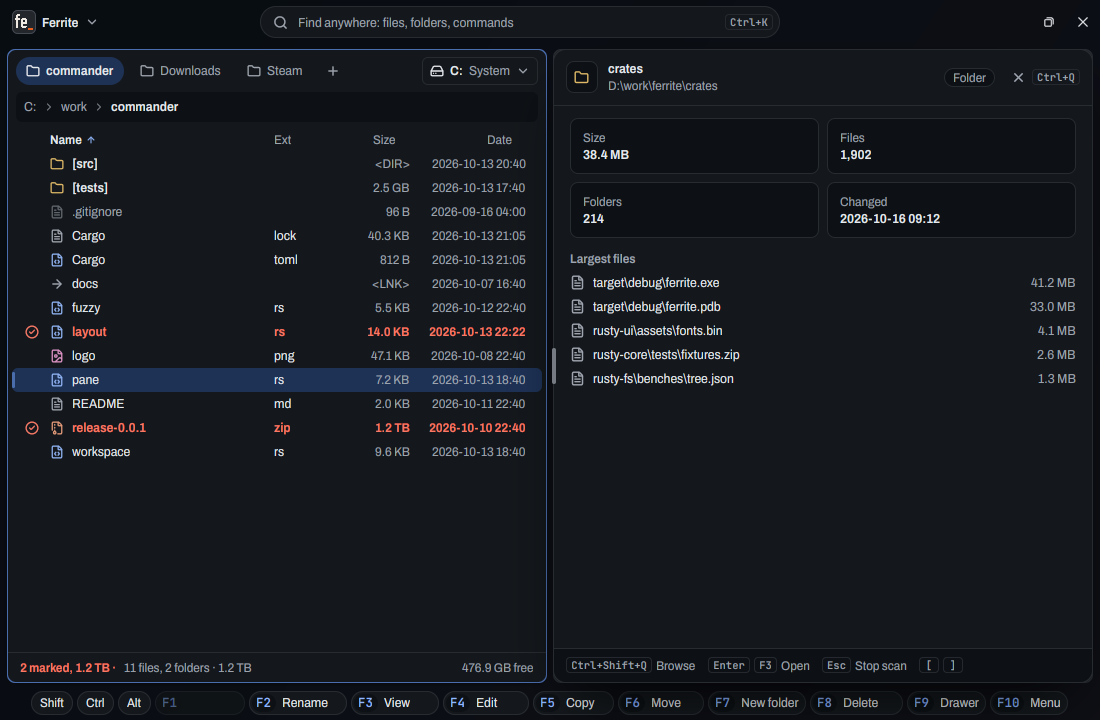
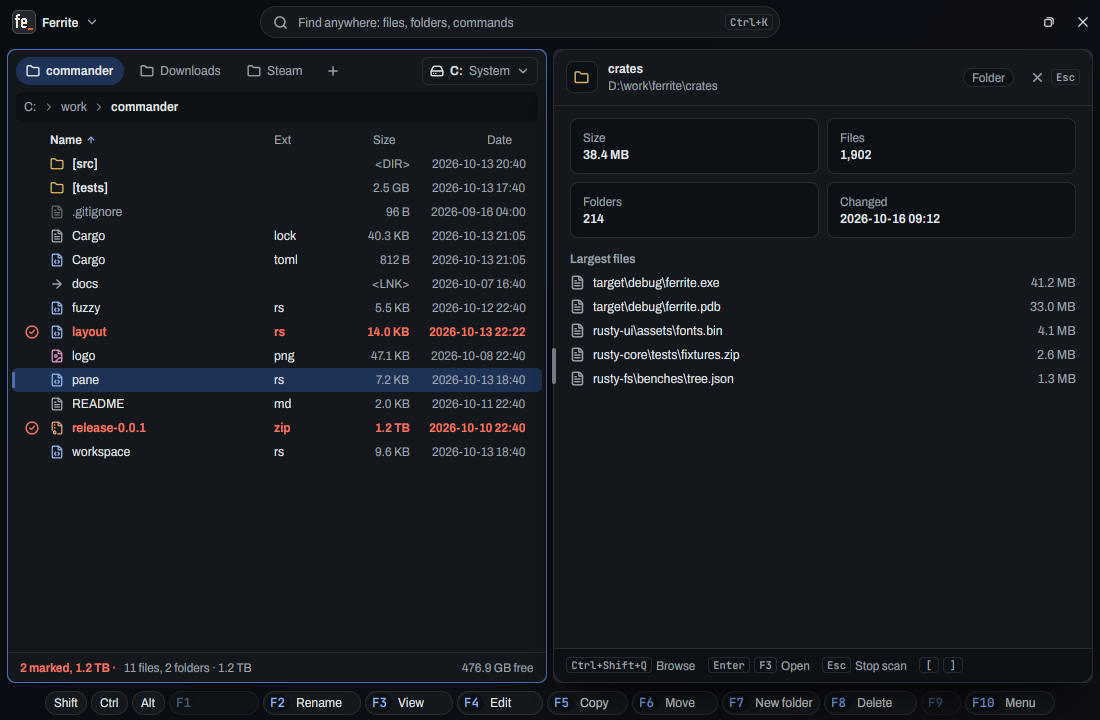
ui: F3 is the only way into the preview, Ctrl+Q and the card button go (P21 V8, D10)
pane.toggle_preview and preview.toggle leave keymap.toml, the registry
and the snapshots, with their actions; a user keymap that still names
them gets the usual unknown-command error. The Preview button in the
active card is removed. The sheet's close button and its Close hint now
show Esc, which already closes it (D9); Ctrl+Shift+Q still browses.
Tests open the sheet through open_preview instead of Ctrl+Q; new tests
cover Ctrl+Q doing nothing, F3 opening and following onto a file, Esc
closing and no card button. Gallery sheet screenshots refreshed.

diff --git a/crates/rusty-ui/src/window_view/preview/tests/toggle.rs b/crates/rusty-ui/src/window_view/preview/tests/toggle.rs
@@ -1,63 +1,67 @@
 use gpui_kit::AppContext as _;
 use gpui_kit::TestAppContext;
+
 use gpui_kit::test::TestWindowExt;
 
 use super::{Rig, open_fake};
+use crate::primitives::Kbd;
+use crate::window_view::preview::Shown;
 use crate::window_view::tests::fake;
 
 fn is_open(cx: &mut TestAppContext, rig: &Rig) -> bool {
     rig.read(cx, |view| view.preview.is_open())
 }
 
-fn button_pressed(cx: &mut TestAppContext, rig: &Rig) -> Option<bool> {
-    let pane = rig.active_pane(cx);
-    cx.update_window(rig.window, |_, window, cx| {
-        window.render_frame(cx);
-        window.find(("preview-button", pane)).selected()
-    })
-    .expect("window")
+#[gpui_kit::test]
+fn ctrl_q_neither_opens_nor_closes_the_preview(cx: &mut TestAppContext) {
+    let rig = open_fake(cx, &fake());
+    rig.key(cx, "ctrl-q");
+    assert!(!is_open(cx, &rig));
+    rig.key(cx, "f3");
+    assert!(is_open(cx, &rig));
+    rig.key(cx, "ctrl-q");
+    assert!(is_open(cx, &rig));
+    assert!(rig.list_has_focus(cx));
 }
 
 #[gpui_kit::test]
-fn ctrl_q_opens_and_closes_the_preview_and_the_list_keeps_focus(cx: &mut TestAppContext) {
+fn f3_opens_the_preview_and_it_follows_the_cursor_onto_a_file(cx: &mut TestAppContext) {
     let rig = open_fake(cx, &fake());
-    assert!(!is_open(cx, &rig));
-    assert!(!rig.shows(cx, "preview-sheet"));
-    rig.key(cx, "ctrl-q");
+    rig.key(cx, "f3");
     assert!(is_open(cx, &rig));
     rig.settle_motion(cx);
     assert!(rig.shows(cx, "preview-sheet"));
-    assert!(rig.list_has_focus(cx));
-    rig.key(cx, "ctrl-q");
-    assert!(!is_open(cx, &rig));
+    assert_eq!(rig.shown_name(cx).as_deref(), Some("docs"));
+    rig.key(cx, "down");
+    assert!(rig.rest_until(cx, |view| {
+        matches!(view.preview.shown(), Some(Shown::File(file)) if file.target.name() == "a.txt")
+    }));
     assert!(rig.list_has_focus(cx));
 }
 
 #[gpui_kit::test]
-fn the_preview_button_in_the_active_card_toggles_the_sheet(cx: &mut TestAppContext) {
+fn escape_closes_the_preview_opened_with_f3(cx: &mut TestAppContext) {
     let rig = open_fake(cx, &fake());
-    let pane = rig.active_pane(cx);
-    assert_eq!(button_pressed(cx, &rig), Some(false));
-    rig.click(cx, ("preview-button", pane));
-    assert!(is_open(cx, &rig));
-    assert_eq!(button_pressed(cx, &rig), Some(true));
-    assert!(rig.list_has_focus(cx));
-    rig.click(cx, ("preview-button", pane));
+    rig.key(cx, "f3");
+    rig.settle_motion(cx);
+    rig.key(cx, "escape");
     assert!(!is_open(cx, &rig));
+    rig.settle_motion(cx);
+    assert!(!rig.shows(cx, "preview-sheet"));
+    assert!(rig.list_has_focus(cx));
 }
 
 #[gpui_kit::test]
-fn only_the_active_card_has_a_preview_button(cx: &mut TestAppContext) {
+fn no_card_has_a_preview_button(cx: &mut TestAppContext) {
     let rig = open_fake(cx, &fake());
-    let active = rig.active_pane(cx);
     let panes = rig.read(cx, |view| view.panes());
-    let passive = panes
-        .iter()
-        .map(|pane| pane.get())
-        .find(|pane| *pane != active)
-        .expect("two panes");
-    assert!(rig.shows(cx, ("preview-button", active)));
-    assert!(!rig.shows(cx, ("preview-button", passive)));
+    for pane in panes {
+        assert!(!rig.shows(cx, ("preview-button", pane.get())));
+    }
+    rig.key(cx, "f3");
+    rig.settle_motion(cx);
+    let active = rig.active_pane(cx);
+    assert!(!rig.shows(cx, ("preview-button", active)));
 }
 
 #[gpui_kit::test]
@@ -83,4 +87,19 @@ fn the_footer_names_every_preview_key(cx: &mut TestAppContext) {
         .filter_map(|index| rig.label(cx, ("side-sheet-hint", index)))
         .collect();
     assert_eq!(hints, ["Browse", "Open", "Stop scan", "[ ]", "Close"]);
+    let escape = Kbd::new("escape", "escape").map(|kbd| kbd.text());
+    let close_keys = cx
+        .update_window(rig.window, |_, window, cx| {
+            window.render_frame(cx);
+            let hint = window
+                .within(("side-sheet-hint", 4usize))
+                .find(("key", 0usize));
+            let button = window.find("side-sheet-close-key");
+            [
+                hint.label().map(str::to_owned),
+                button.label().map(str::to_owned),
+            ]
+        })
+        .expect("window");
+    assert_eq!(close_keys, [escape.clone(), escape]);
 }

diff --git a/crates/rusty-ui/src/window_view/preview/sheet.rs b/crates/rusty-ui/src/window_view/preview/sheet.rs
@@ -1,11 +1,10 @@
+use gpui_kit::Role;
 use gpui_kit::base::TestSupportExt;
-use gpui_kit::{ClickEvent, Role};
 
 use super::Shown;
 use super::file::FilePreview;
 use super::header::{title_of, title_view};
 use super::summary::{Picks, Sections, summary};
-use crate::pane_chrome::PreviewButton;
 use crate::prelude::*;
 use crate::side_sheet::{SheetFrame, SideSheet, on_resize_keys};
 use crate::tokens::{self, Theme};
@@ -69,16 +68,6 @@ impl FerriteWindow {
         on_resize_keys(root, &self.preview.sheet, frame)
     }
 
-    pub(in crate::window_view) fn preview_button(
-        &self,
-        pane: rusty_core::PaneId,
-        cx: &mut Context<Self>,
-    ) -> PreviewButton {
-        PreviewButton::new(("preview-button", pane.get()), self.preview.is_open()).on_click(
-            cx.listener(|this, _: &ClickEvent, window, cx| this.toggle_preview(window, cx)),
-        )
-    }
-
     pub(in crate::window_view) fn preview_layer(
         &self,
         window: &Window,
@@ -97,8 +86,12 @@ impl FerriteWindow {
         let sheet = SideSheet::new("preview-sheet", &self.preview.sheet, frame)
             .label("Preview")
             .header(title_view(&t, title_of(&t, shown), is_browsing))
-            .close("ctrl-q", move |window, cx| {
-                let _ = this.update(cx, |view, cx| view.toggle_preview(window, cx));
+            .close("escape", move |window, cx| {
+                let _ = this.update(cx, |view, cx| {
+                    view.close_preview(cx);
+                    view.focus_core_pane(window, cx);
+                    cx.notify();
+                });
             })
             .body(self.browse_frame(body, cx))
             .accent_ring(is_browsing);
@@ -117,7 +110,7 @@ impl FerriteWindow {
         let sheet = if is_browsing {
             sheet
         } else {
-            sheet.hint(&["[", "]"], "").hint(&["ctrl-q"], "Close")
+            sheet.hint(&["[", "]"], "").hint(&["escape"], "Close")
         };
         Some(
             div()

diff --git a/crates/rusty-ui/src/window_view/pane.rs b/crates/rusty-ui/src/window_view/pane.rs
@@ -7,7 +7,6 @@ use rusty_core::{Command, Location, PaneId, Tab};
 use super::FerriteWindow;
 use super::keys::{
     BrowsePreview, DriveMenuFirst, DriveMenuSecond, EditPath, NewTab, PANE, ResetSplit,
-    TogglePreview,
 };
 use super::status::status_of;
 use crate::FocusHandle;
@@ -134,9 +133,6 @@ impl FerriteWindow {
         let tabs = Self::tabs(pane, titles, active_index, cx).highlighted(is_active);
         card_header(&t)
             .child(div().flex_1().min_w_0().child(tabs))
-            .when(is_active, |header| {
-                header.child(self.preview_button(pane, cx))
-            })
             .child(self.drive_pill(pane, cx))
     }
 
@@ -186,11 +182,6 @@ impl FerriteWindow {
                 let pane = this.browser.state().focused_pane();
                 this.open_path_edit(pane, cx);
             }))
-            .on_action(
-                cx.listener(|this: &mut Self, _: &TogglePreview, window, cx| {
-                    this.toggle_preview(window, cx);
-                }),
-            )
             .on_action(
                 cx.listener(|this: &mut Self, _: &BrowsePreview, window, cx| {
                     this.browse_preview(window, cx);

diff --git a/crates/rusty-ui/src/commands/tests.rs b/crates/rusty-ui/src/commands/tests.rs
@@ -2,9 +2,7 @@ use std::collections::HashSet;
 
 use gpui_kit::{App, TestAppContext};
 
-use super::{
-    CommandSpec, GLOBAL, Keymap, all, by_name, for_action, for_menu, is_within, key_bindings,
-};
+use super::{GLOBAL, Keymap, all, by_name, for_action, for_menu, is_within, key_bindings};
 use crate::app_menu::MenuCommand;
 
 const NAMESPACES: [&str; 18] = [
@@ -230,12 +228,10 @@ fn all_settings_shares_the_toggle_settings_command() {
 }
 
 #[test]
-fn the_preview_toggles_are_two_commands() {
-    let pane = for_action("ferrite_window::TogglePreview");
-    let browse = for_action("preview::TogglePreview");
-    let pick = |spec: Option<CommandSpec>| spec.map(|spec| (spec.name, spec.context));
-    assert_eq!(pick(pane), Some(("pane.toggle_preview", "FerritePane")));
-    assert_eq!(pick(browse), Some(("preview.toggle", "PreviewBrowse")));
+fn no_command_toggles_the_preview() {
+    let names: Vec<&str> = all().map(|spec| spec.name).collect();
+    assert!(!names.contains(&"pane.toggle_preview"));
+    assert!(!names.contains(&"preview.toggle"));
 }
 
 #[test]

diff --git a/crates/rusty-ui/src/commands/window.rs b/crates/rusty-ui/src/commands/window.rs
@@ -61,11 +61,6 @@ pub(super) const GROUPS: [Group; 7] = [
                 "Reset pane split",
             ),
             (
-                "ferrite_window::TogglePreview",
-                "pane.toggle_preview",
-                "Show or hide preview",
-            ),
-            (
                 "ferrite_window::BrowsePreview",
                 "preview.browse",
                 "Browse in preview",
@@ -101,11 +96,6 @@ pub(super) const GROUPS: [Group; 7] = [
                 "preview::LeaveAndSwitch",
                 "preview.leave_and_switch",
                 "Leave preview, switch pane",
-            ),
-            (
-                "preview::TogglePreview",
-                "preview.toggle",
-                "Show or hide preview",
             ),
             ("preview::Recount", "preview.recount", "Recount folder"),
         ],

diff --git a/crates/rusty-ui/src/commands/keymap/overlay_tests.rs b/crates/rusty-ui/src/commands/keymap/overlay_tests.rs
@@ -183,6 +183,21 @@ fn an_unknown_command_is_an_error_on_its_line() {
 }
 
 #[test]
+fn a_user_entry_for_a_removed_preview_toggle_is_an_unknown_command() {
+    for command in ["pane.toggle_preview", "preview.toggle"] {
+        assert_eq!(
+            error_of(&one(command, "\"ctrl-q\"", None)),
+            Some(UserKeymapError {
+                line: Some(1),
+                error: KeymapError::UnknownCommand {
+                    command: command.to_owned()
+                },
+            })
+        );
+    }
+}
+
+#[test]
 fn a_context_outside_the_home_context_is_an_error() {
     assert_eq!(
         error_of(&one("tab.next", "\"f12\"", Some("Tree"))),

diff --git a/crates/rusty-ui/src/window_view/preview/browse.rs b/crates/rusty-ui/src/window_view/preview/browse.rs
@@ -20,7 +20,6 @@ gpui_kit::actions!(
         BrowseView,
         LeaveBrowse,
         LeaveAndSwitch,
-        TogglePreview,
         Recount
     ]
 );
@@ -187,9 +186,6 @@ impl FerriteWindow {
             .on_action(cx.listener(|this, _: &LeaveAndSwitch, window, cx| {
                 this.leave_browse(window, cx);
                 this.switch_pane(window, cx);
-            }))
-            .on_action(cx.listener(|this, _: &TogglePreview, window, cx| {
-                this.toggle_preview(window, cx);
             }))
             .on_action(cx.listener(|this, _: &Recount, _, cx| this.recount_folder(cx)))
             .child(body)

diff --git a/crates/rusty-ui/src/commands/keymap/tests.rs b/crates/rusty-ui/src/commands/keymap/tests.rs
@@ -13,13 +13,13 @@ fn error_of(text: &str) -> Option<KeymapError> {
 fn the_built_in_keymap_parses_and_validates() {
     let parsed = Keymap::parse(BUILTIN);
     assert_eq!(parsed.as_ref().err(), None);
-    assert_eq!(parsed.map(|keymap| keymap.binds().len()), Ok(234));
+    assert_eq!(parsed.map(|keymap| keymap.binds().len()), Ok(232));
 }
 
 #[test]
 fn the_built_in_keymap_is_parsed_once() {
     assert!(std::ptr::eq(Keymap::builtin(), Keymap::builtin()));
-    assert_eq!(Keymap::builtin().binds().len(), 234);
+    assert_eq!(Keymap::builtin().binds().len(), 232);
 }
 
 #[test]

diff --git a/crates/rusty-ui/src/window_view/preview/mod.rs b/crates/rusty-ui/src/window_view/preview/mod.rs
@@ -102,20 +102,6 @@ impl Preview {
 }
 
 impl FerriteWindow {
-    pub(in crate::window_view) fn toggle_preview(
-        &mut self,
-        window: &mut Window,
-        cx: &mut Context<Self>,
-    ) {
-        if self.preview.is_open {
-            self.close_preview(cx);
-        } else {
-            self.open_preview(window, cx);
-        }
-        self.focus_core_pane(window, cx);
-        cx.notify();
-    }
-
     pub(in crate::window_view) fn open_preview(
         &mut self,
         window: &mut Window,

diff --git a/crates/rusty-ui/src/window_view/preview/tests/browse.rs b/crates/rusty-ui/src/window_view/preview/tests/browse.rs
@@ -252,9 +252,9 @@ fn tab_leaves_browse_mode_then_switches_panes(cx: &mut TestAppContext) {
 }
 
 #[gpui_kit::test]
-fn ctrl_q_closes_the_sheet_and_leaves_browse_mode(cx: &mut TestAppContext) {
+fn the_close_button_closes_the_sheet_and_leaves_browse_mode(cx: &mut TestAppContext) {
     let (rig, _) = browsing(cx);
-    rig.key(cx, "ctrl-q");
+    rig.click(cx, "side-sheet-close");
     assert!(!rig.read(cx, |view| view.preview.is_open()));
     assert!(rig.list_has_focus(cx));
 }

diff --git a/crates/rusty-ui/src/window_view/preview/tests/live.rs b/crates/rusty-ui/src/window_view/preview/tests/live.rs
@@ -86,7 +86,7 @@ fn a_file_written_deep_inside_updates_the_total(cx: &mut TestAppContext) {
 fn closing_the_sheet_stops_the_watch(cx: &mut TestAppContext) {
     let (rig, fs) = opened_live(cx);
     assert_eq!(fs.watchers("home/proj"), 1);
-    rig.key(cx, "ctrl-q");
+    rig.key(cx, "escape");
     rig.settle_motion(cx);
     let deadline = Instant::now() + PATIENCE;
     while fs.watchers("home/proj") > 0 && Instant::now() < deadline {

diff --git a/crates/rusty-ui/src/pane_chrome/mod.rs b/crates/rusty-ui/src/pane_chrome/mod.rs
@@ -4,7 +4,6 @@ mod drive_pill;
 mod drives;
 mod path_bar;
 mod path_input;
-mod preview_button;
 mod segments;
 
 #[cfg(test)]
@@ -26,7 +25,6 @@ pub use drive_pill::DrivePill;
 pub use drives::{DriveIcon, DriveInfo, current_drive};
 pub use path_bar::PathBar;
 pub use path_input::PathInput;
-pub use preview_button::PreviewButton;
 pub use segments::{PathSegment, path_segments};
 
 use crate::primitives::{IconName, Tab, Tabs, icon};
